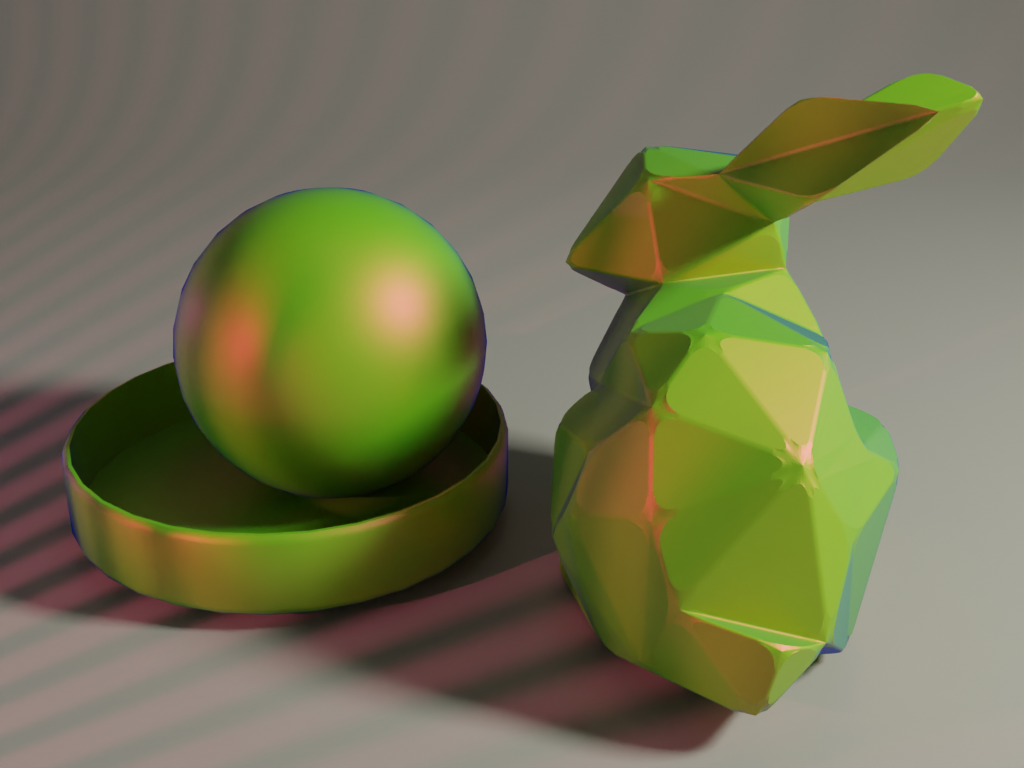
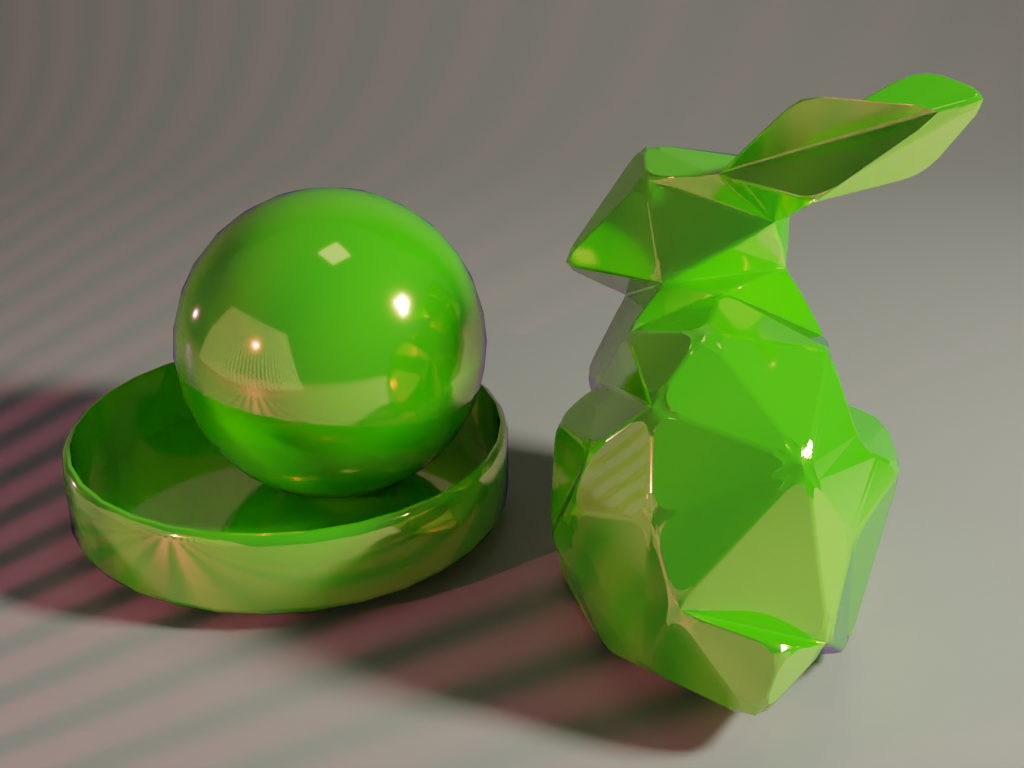
upd

diff --git a/README.md b/README.md
@@ -8,7 +8,7 @@ Tested in v3.4.1. All the materials are procedural.
 
 | Material  | Image | Node  | Material | Image | Node |
 | ------------- | ------------- | ------------- | ------------- | ------------- | ------------- |
-| [Shiny plastic](https://www.youtube.com/watch?v=vJZsTG2bUF4&ab_channel=blenderian)  | <img src="materials/shiny_plastic.png"/> | <img src="materials/nodes.png"/> | [Translucent plastic](https://www.youtube.com/watch?v=vJZsTG2bUF4&ab_channel=blenderian)  | <img src="materials/translucent_plastic.png"/>  | <img src="materials/nodes.png"/> |
+| [Shiny plastic](https://www.youtube.com/watch?v=vJZsTG2bUF4&ab_channel=blenderian)  | <img src="materials/shiny_plastic.png"/> | <img src="materials/shiny_plastic_nodes.png"/> | [Translucent plastic](https://www.youtube.com/watch?v=vJZsTG2bUF4&ab_channel=blenderian)  | <img src="materials/translucent_plastic.png"/>  | <img src="materials/translucent_plastic_nodes.png"/> |
 | [Scratched Plastic](https://www.youtube.com/watch?v=l0whu3494_c&ab_channel=RyanKingArt)  | Image  | Node  | [Worn rubber](https://www.youtube.com/watch?v=bseCQqzT-b8&ab_channel=blenderbitesize)  | Image  | Node  |
 | [Glass1](https://www.youtube.com/watch?v=bIL1bvCwzlQ&ab_channel=NazariyD)  | Image  | Node  | [Glass2](https://www.youtube.com/watch?v=Upt8JaqtVxg&ab_channel=atti)  | Image  | Node  |
 | [Emissive](https://www.youtube.com/watch?v=Z3uCdffFq4E&ab_channel=Ducky3D) | Image  | Node  | [Glitter](https://www.youtube.com/watch?v=tUJ8m2WEvnE&ab_channel=Farrukh3D) | Image  | Node  |
